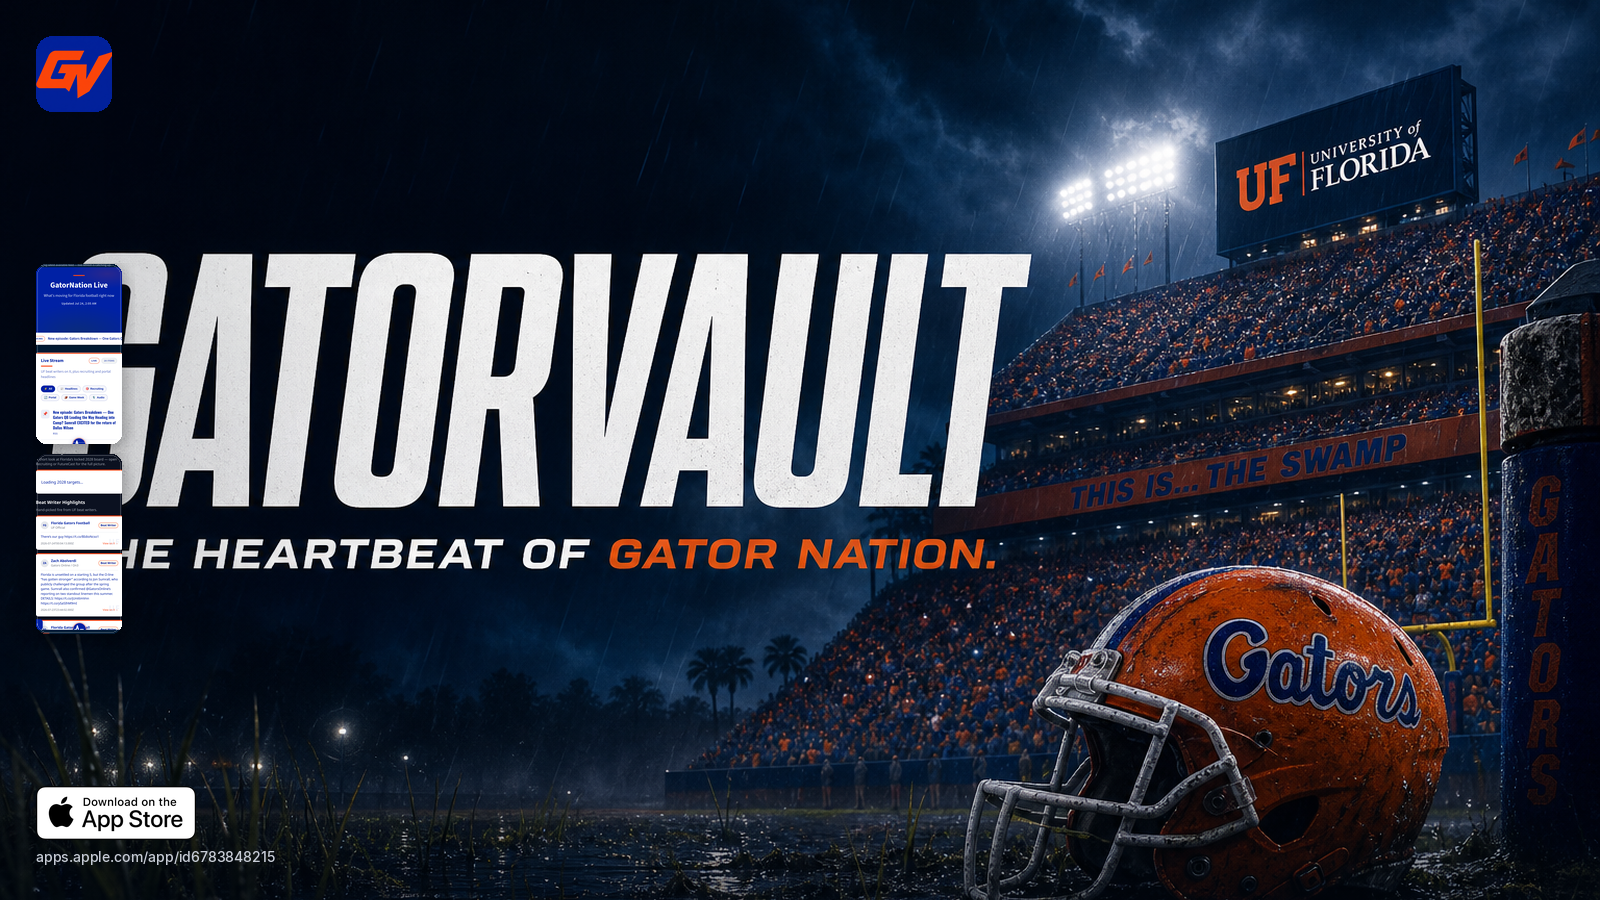
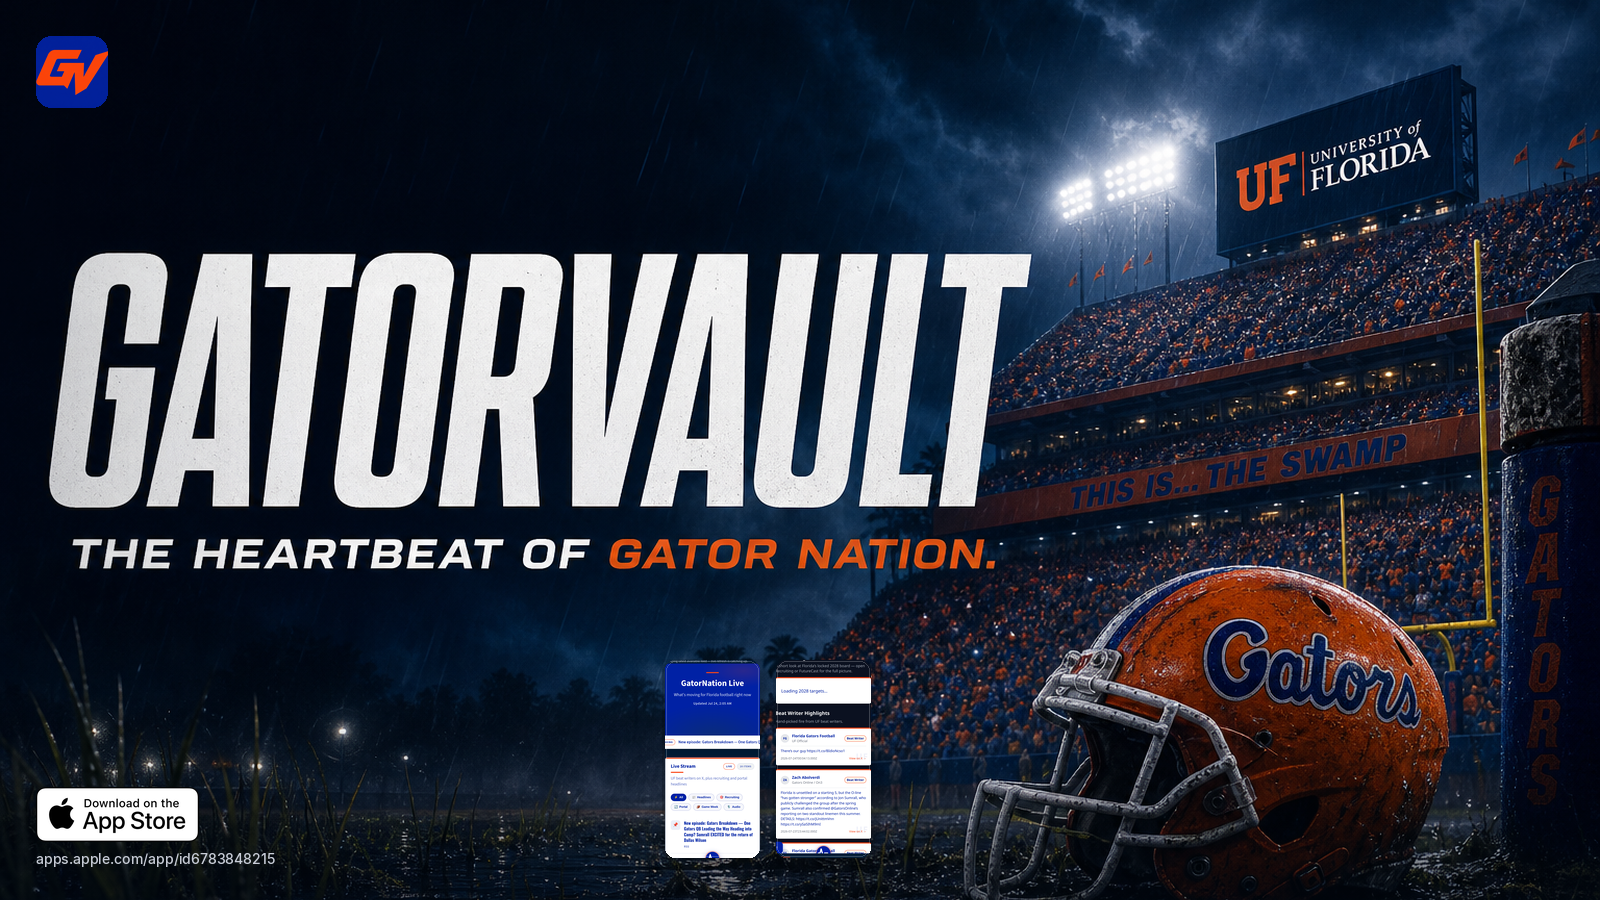
docs(promo): park Live/Targets thumbs in bottom grass band

diff --git a/docs/promo/README.md b/docs/promo/README.md
@@ -1,16 +1,16 @@
 # GatorVault App Store social pack
 
-## Main (kept)
-`gatorvault-twitter-facebook-1600x900.png` — stadium + Schedule on the right (Charles preferred)
+## Main (kept — Schedule big on right)
+`gatorvault-twitter-facebook-1600x900.png`
 
-## Background-first (stadium open; app screens small on the LEFT)
-| File | Screen | Where |
-|---|---|---|
-| `gatorvault-twitter-background-1600x900.png` | Live + Targets | Tiny stack on left under icon |
-| `gatorvault-facebook-og-1200x630.png` | Live | Tiny left under icon |
-| `gatorvault-square-1080.png` | 2028 Targets | Tiny left under icon |
-| `gatorvault-badge-lockup-1200x280.png` | none | Background + badge only |
+## Background-first (stadium + helmet show; screens small in bottom grass band)
+| File | Screen(s) |
+|---|---|
+| `gatorvault-twitter-background-1600x900.png` | Live + Targets |
+| `gatorvault-facebook-og-1200x630.png` | Live |
+| `gatorvault-square-1080.png` | 2028 Targets |
+| `gatorvault-badge-lockup-1200x280.png` | none |
 
-Helmet / stadium on the right stay visible.
+Screens sit low between the badge and helmet — not over the wordmark / stadium.
 
 https://apps.apple.com/app/id6783848215
